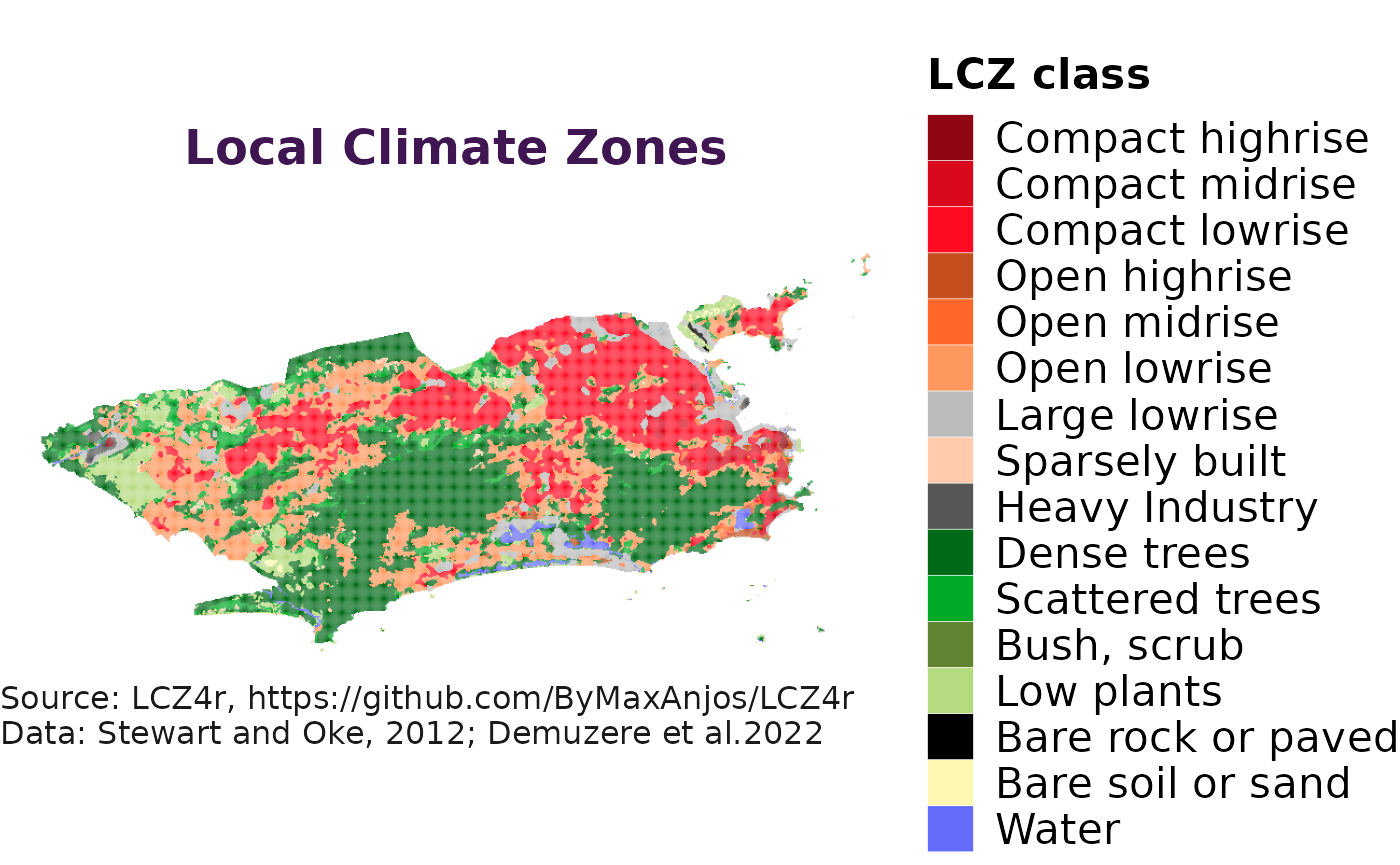
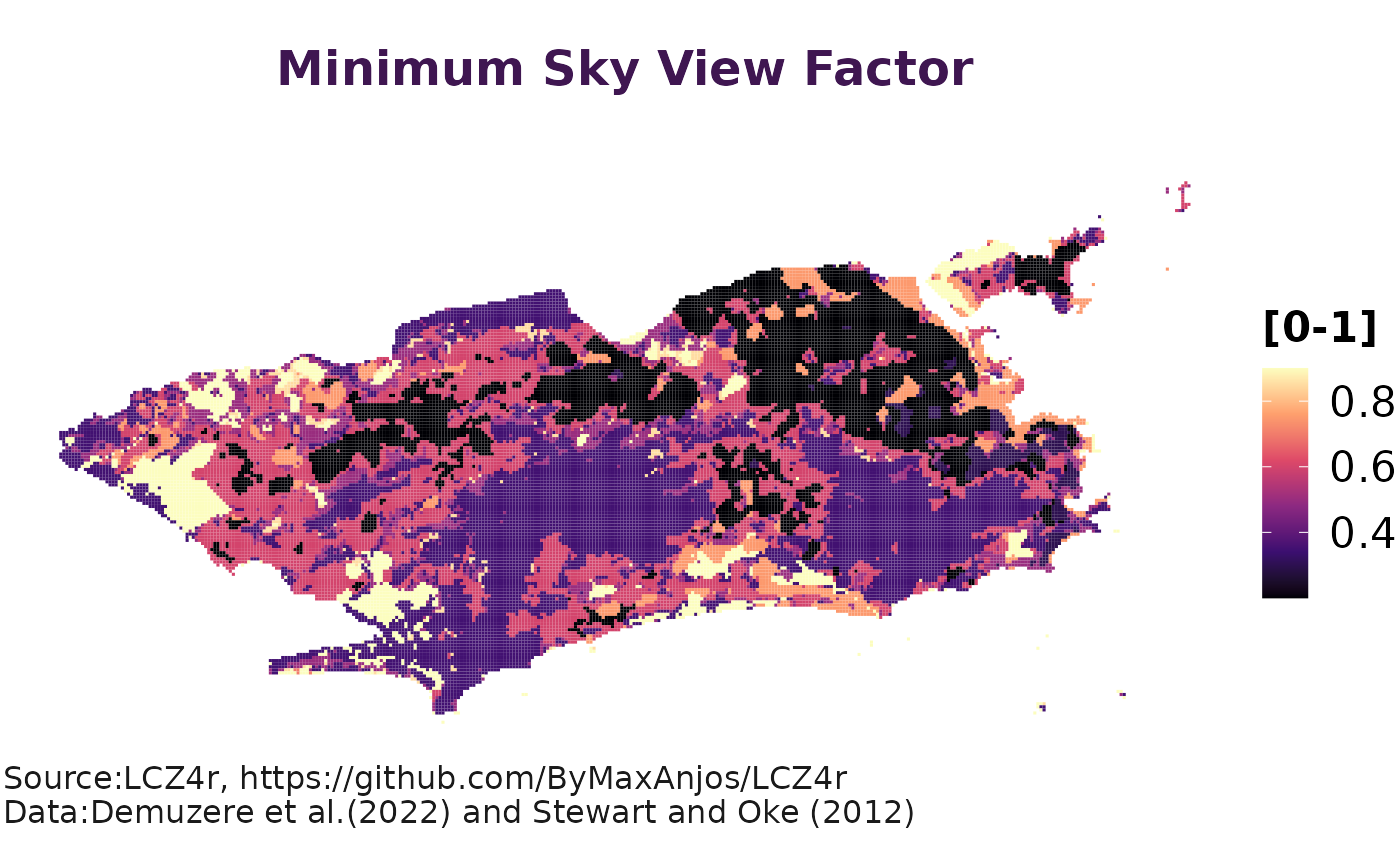
Deploying to gh-pages from @ ByMaxAnjos/LCZ4r@7165e95e9b3315bc7b47c7014c2c06834864f9ad 🚀

diff --git a/articles/Introd_to_LCZ4r.html b/articles/Introd_to_LCZ4r.html
@@ -107,6 +107,9 @@ develop, and caution is advised when interpreting its outcomes.</p>
 </h2>
 <p>To install LCZ4r, use the development version with latest
 features</p>
+<div class="sourceCode" id="cb1"><pre class="downlit sourceCode r">
+<code class="sourceCode R"><span></span>
+<span><span class="kw"><a href="https://rdrr.io/r/base/library.html" class="external-link">library</a></span><span class="op">(</span><span class="va"><a href="https://bymaxanjos.github.io/LCZ4r/" class="external-link">LCZ4r</a></span><span class="op">)</span></span></code></pre></div>
 </div>
 <div class="section level2">
 <h2 id="overview-of-the-package">Overview of the package<a class="anchor" aria-label="anchor" href="#overview-of-the-package"></a>
@@ -164,6 +167,14 @@ features</p>
 </h2>
 <p>This function gets LCZ for a specified region of interest (ROI) using
 global LCZ mapping.</p>
+<div class="sourceCode" id="cb2"><pre class="downlit sourceCode r">
+<code class="sourceCode R"><span></span>
+<span><span class="co">#Get your city LCZ map</span></span>
+<span><span class="va">lcz_map</span> <span class="op">&lt;-</span> <span class="fu"><a href="../reference/lcz_get_map.html">lcz_get_map</a></span><span class="op">(</span>city<span class="op">=</span><span class="st">"Rio de Janeiro"</span><span class="op">)</span></span>
+<span></span>
+<span><span class="co">#Plot it</span></span>
+<span><span class="fu"><a href="../reference/lcz_plot_map.html">lcz_plot_map</a></span><span class="op">(</span><span class="va">lcz_map</span><span class="op">)</span></span></code></pre></div>
+<p><img src="Introd_to_LCZ4r_files/figure-html/unnamed-chunk-2-1.png" width="100%"></p>
 <p>This nice function gets all LCZ parameters (including, min, max, and
 mean) from Stewart and Oke (2012) and converts them to shapefile or
 raster stack.</p>
@@ -201,7 +212,19 @@ raster stack.</p>
 </tr>
 </tbody>
 </table>
+<div class="sourceCode" id="cb3"><pre class="downlit sourceCode r">
+<code class="sourceCode R"><span></span>
+<span><span class="va">LCZpar</span> <span class="op">&lt;-</span> <span class="fu"><a href="../reference/lcz_get_parameters.html">lcz_get_parameters</a></span><span class="op">(</span><span class="va">lcz_map</span>, istack <span class="op">=</span> <span class="cn">TRUE</span><span class="op">)</span></span>
+<span></span>
+<span><span class="fu"><a href="../reference/lcz_plot_parameters.html">lcz_plot_parameters</a></span><span class="op">(</span><span class="va">LCZpar</span>, iselect <span class="op">=</span> <span class="st">"SVF1"</span><span class="op">)</span></span></code></pre></div>
+<p><img src="Introd_to_LCZ4r_files/figure-html/unnamed-chunk-3-1.png" width="100%"></p>
 <p>This function calculates the LCZ area like this:</p>
+<div class="sourceCode" id="cb4"><pre class="downlit sourceCode r">
+<code class="sourceCode R"><span></span>
+<span><span class="va">LCZarea</span> <span class="op">&lt;-</span> <span class="fu"><a href="../reference/lcz_cal_area.html">lcz_cal_area</a></span><span class="op">(</span><span class="va">lcz_map</span>, iplot <span class="op">=</span> <span class="cn">TRUE</span><span class="op">)</span></span>
+<span></span>
+<span><span class="va">LCZarea</span></span></code></pre></div>
+<p><img src="Introd_to_LCZ4r_files/figure-html/unnamed-chunk-4-1.png" width="100%"></p>
 </div>
   </div>
 

diff --git a/index.html b/index.html
@@ -100,15 +100,16 @@
 </h2>
 <p>To install LCZ4r use the development version with latest features</p>
 <p>```{r setup, include=TRUE}</p>
-<p>devtools::install_github(“ByMaxAnjos/LCZ4r”) library(LCZ4r)</p>
+<p>devtools::install_github(“ByMaxAnjos/LCZ4r”)</p>
+<p>library(LCZ4r)</p>
 <pre><code>## Overview of the package
 The **LCZ4r** package includes 5 functions:
 
-- `getLCZmap()` - Get you LCZ map
-- `plotLCZmap()` - Plot you LCZ map
-- `LCZarea()` - Caculate the LCZ area
-- `getLCZparameters()` - Get LCZ parameters
-- `plotLCZparameters()` - Plot LCZ parameters
+- `lcz_get_map()` - Get you LCZ map
+- `lcz_plot_map()` - Plot you LCZ map
+- `lcz_cal_area()` - Caculate the LCZ area
+- `lcz_get_parameters()` - Get LCZ parameters
+- `lcz_plot_parameters()` - Plot LCZ parameters
 
 
 ## Basic Usage
@@ -117,16 +118,16 @@ This function gets LCZ for a specified region of interest (ROI) using global LCZ
 
 ```{r setup, include=TRUE}
 
-lcz_map &lt;- getLCZmap(city="Berlin")
+lcz_map &lt;- lcz_get_map(city="Berlin")
 
-plotLCZmap(lcz_map)
+lcz_plot_map(lcz_map)
 </code></pre>
 <div class="figure">
 <img src="https://github.com/ByMaxAnjos/LCZ4r/assets/94705218/d1f3e0b8-bd05-464b-b52d-932fa5cf77a2" alt=""><p class="caption">lcz_PlotMap</p>
 </div>
 <p>This nice function gets all LCZ parameters (including, min, max, and mean) from Stewart and Oke (2012) and converts them to shapefile or raster stack.</p>
 <p>```{r setup, include=TRUE}</p>
-<p>LCZpar &lt;- getLCZparameters(lcz_map, iStack = TRUE)</p>
+<p>LCZpar &lt;- lcz_get_parameters(lcz_map, iStack = TRUE) lcz_plot_parameters(LCZpar, iselect = “SVF1”)</p>
 <pre><code>&lt;img width="1439" alt="Screenshot 2023-08-13 at 19 19 06" src="https://github.com/ByMaxAnjos/LCZ4r/assets/94705218/e9006776-a336-4303-bc35-f787090a1caf"&gt;
 
 
@@ -134,7 +135,7 @@ This function calculates the LCZ area like this:
 
 ```{r setup, include=TRUE}
 
-LCZarea &lt;- LCZarea(lcz_map, iplot = TRUE)
+LCZarea &lt;- lcz_cal_area(lcz_map, iplot = TRUE)
 LCZarea
 </code></pre>
 <p><img width="1440" alt="Screenshot 2023-08-13 at 19 24 47" src="https://github.com/ByMaxAnjos/LCZ4r/assets/94705218/2f2fcd9f-1744-47a9-850a-5ad0630aae3b"></p>
@@ -149,7 +150,9 @@ LCZarea
 </ol>
 <p>Note that the model converts the date-time into a R-formatted version, e.g., “2023-03-13 11:00:00” or “2023-03-13”.</p>
 <p>The following dataframe is presented as follows:</p>
-<p><code>{r setup, include=TRUE} air_UCON %&gt;% head(10)</code></p>
+<p>```{r setup, include=TRUE}</p>
+<p>air_UCON %&gt;% head(10)</p>
+<p>```</p>
 </div>
 <div class="section level2">
 <h2 id="calculate-thermal-anomaly-between-lcz">Calculate thermal anomaly between LCZ<a class="anchor" aria-label="anchor" href="#calculate-thermal-anomaly-between-lcz"></a>
